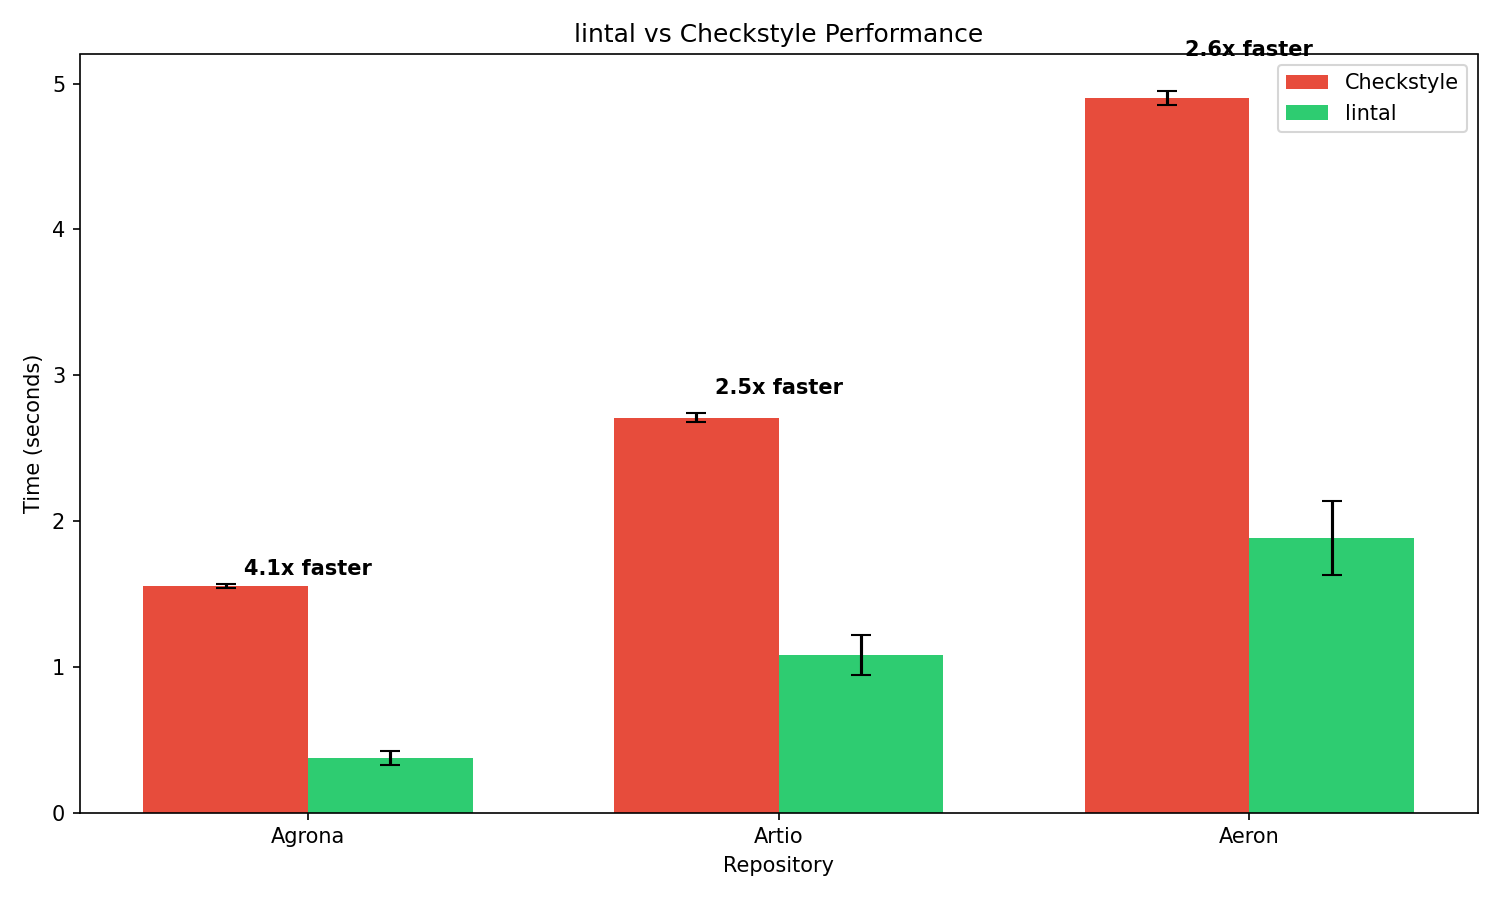
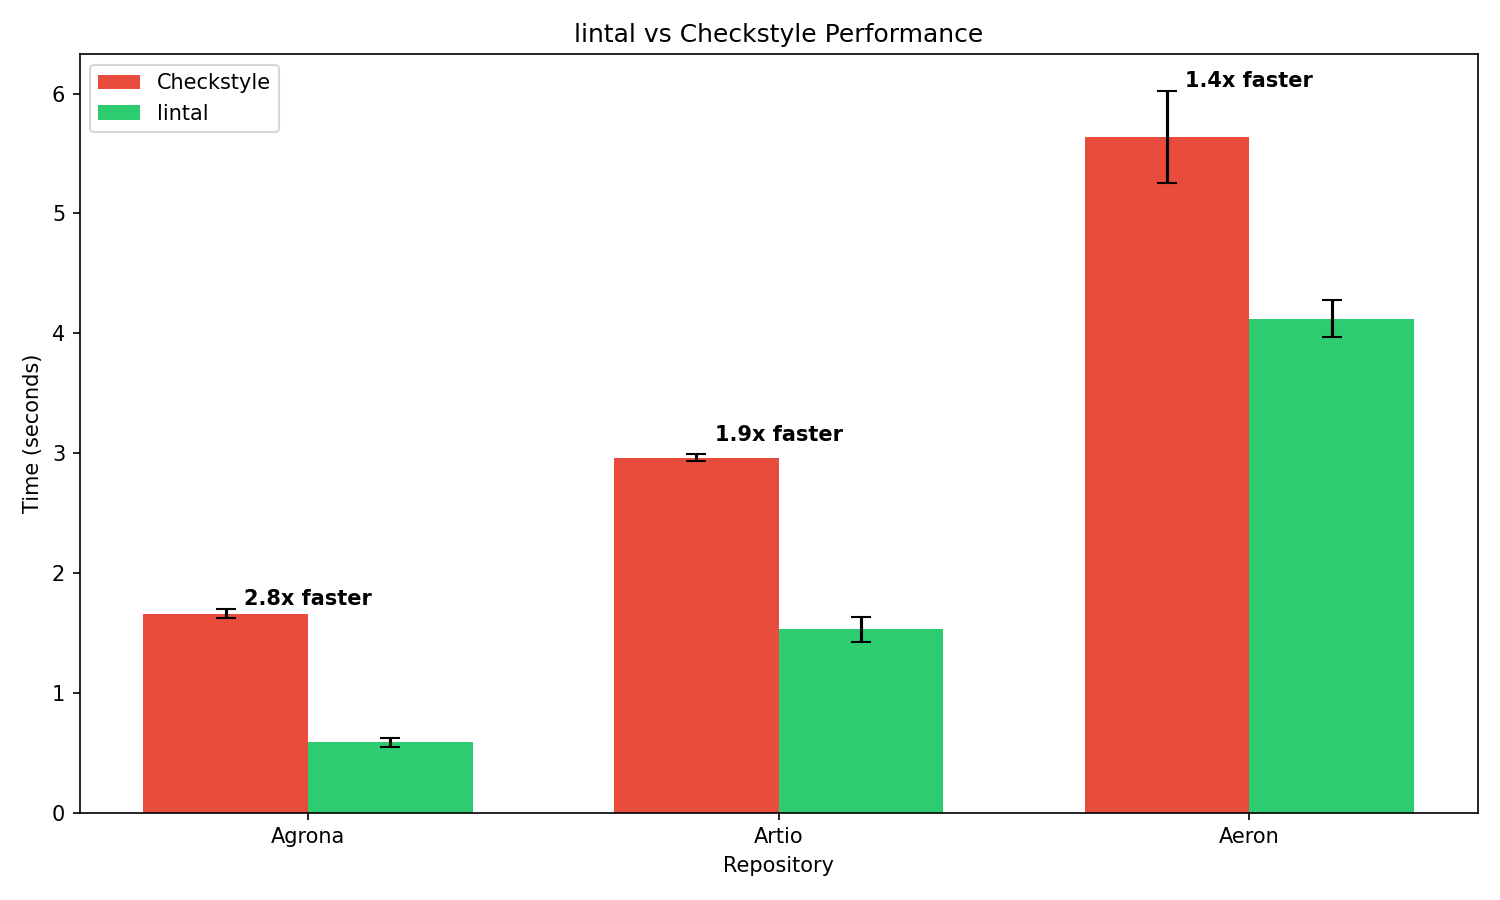
chore: add naming rules to benchmarks and update results
- Added 9 naming rules to benchmark configs (agrona, artio, aeron)
- Updated benchmark to test 33 rules (was 24)
- Updated README with new benchmark results for checkstyle 13.0.0

diff --git a/README.md b/README.md
@@ -26,13 +26,13 @@ Since introducing lintal, we're spending less time on the checkstyle step—givi
 
 lintal is significantly faster than checkstyle due to native compilation and parallel processing (along with the Ruff heritage).
 
-**Benchmark vs Checkstyle 13.0.0** (same files, 33 of 39 supported rules including Indentation, 10 runs each after warmup):
+**Benchmark vs Checkstyle 13.0.0** (same files, 33 of 39 supported rules including Indentation and Naming, 10 runs each after warmup):
 
 | Repository | Files | Checkstyle | lintal | Speedup |
 |------------|-------|------------|--------|---------|
-| Agrona | 289 | 1.55s ± 0.01s | 0.38s ± 0.05s | **4.1x** |
-| Artio | 726 | 2.71s ± 0.03s | 1.08s ± 0.14s | **2.5x** |
-| Aeron | 935 | 4.90s ± 0.05s | 1.88s ± 0.26s | **2.6x** |
+| Agrona | 289 | 1.66s ± 0.03s | 0.59s ± 0.04s | **2.8x** |
+| Artio | 726 | 2.96s ± 0.03s | 1.53s ± 0.10s | **1.9x** |
+| Aeron | 929 | 5.64s ± 0.38s | 4.12s ± 0.15s | **1.4x** |
 
 ![Benchmark Results](docs/benchmark_results.png)
 
